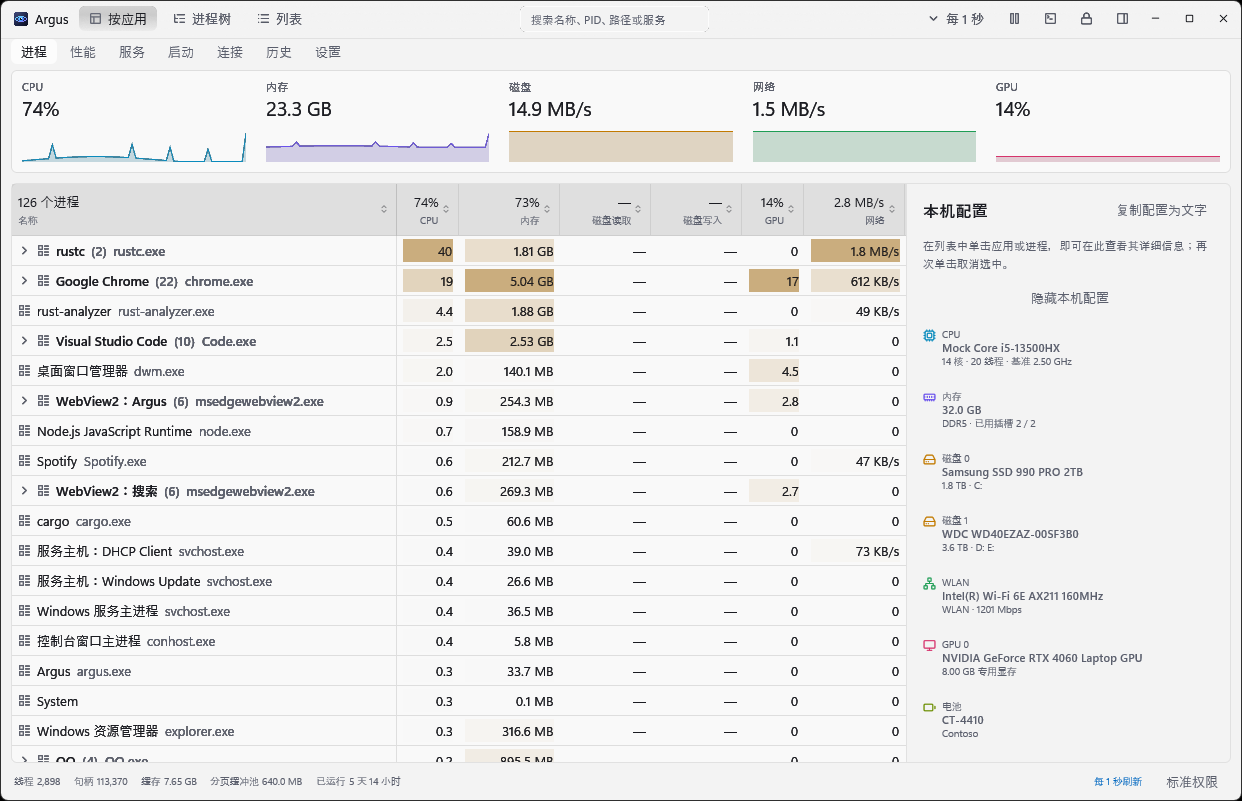
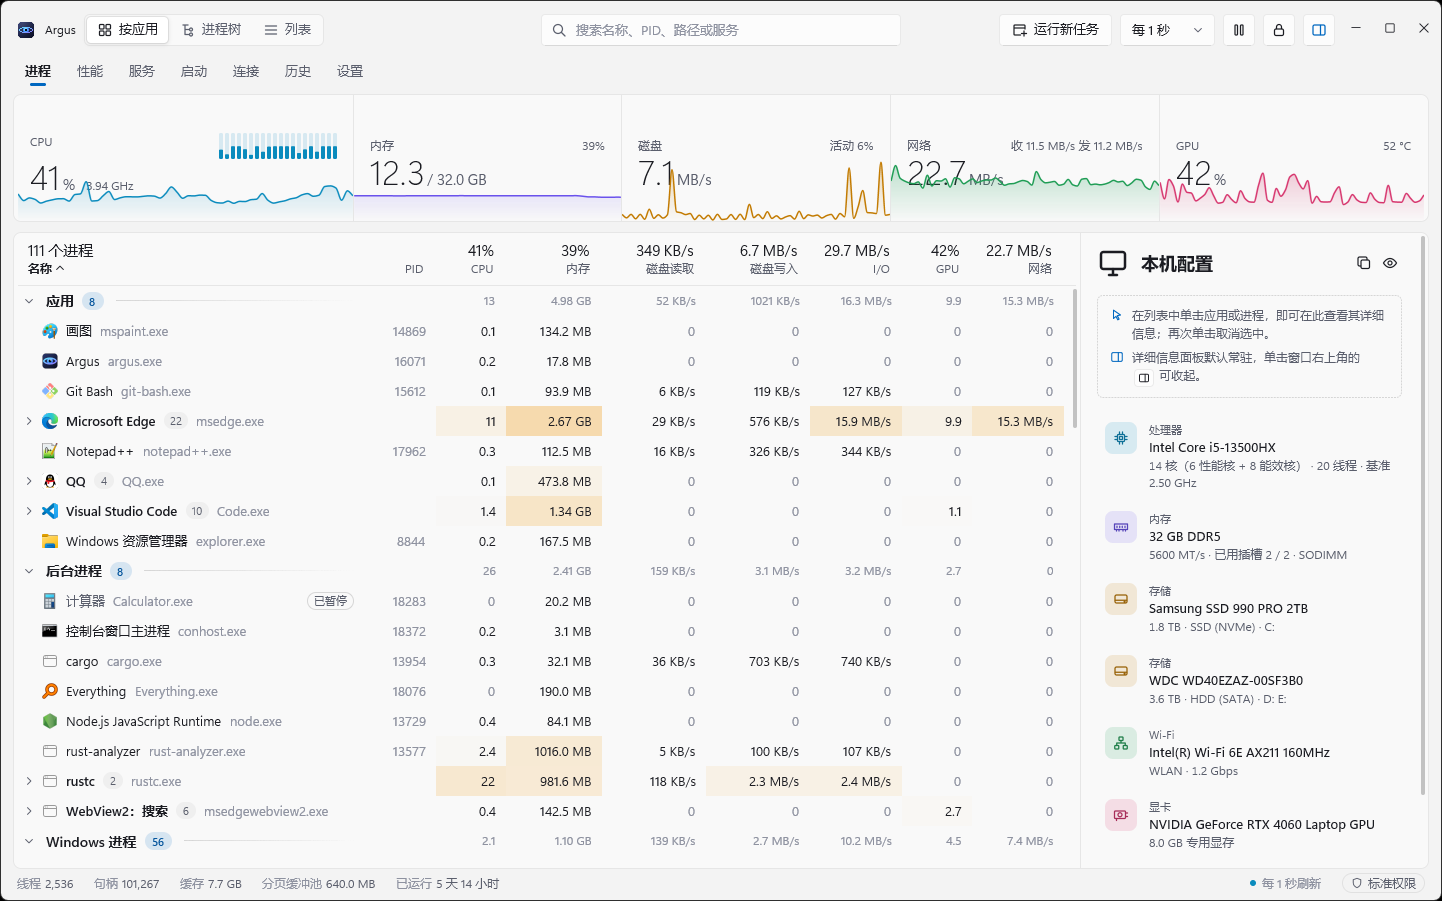
docs: 更新中英文 README 的进程页预览图

diff --git a/docs/AGENTS.md b/docs/AGENTS.md
@@ -4,7 +4,7 @@
 
 - `README.md`（仓库根目录）：对外公开的介绍，参考典型开源项目：是什么、特性、系统要求、怎么构建、快捷键摘要、文档入口、路线图摘要。保持简短，不放实现细节和测量过程。内部开发细则（提交规范、发布流程、CI）也不写进去，包括文档链接后的说明文字。
 - README 的标题 emoji 不要带变体选择符 U+FE0F（如 🛠、⌨、🗺）：GitHub 生成锚点时会保留这个不可见字符，`#-标题` 形式的链接就会失效。
-- README 截图使用窗口探针与模拟快照，只捕获 Argus 测试窗口，不截真实进程；分别验证浅色、深色与中英文。
+- 更新 README 预览图运行 `node scripts/readme-previews.mjs`。用当前源码构建的窗口，按名称升序展示模拟应用及其真实图标。四张图共用同一段连续实测的 CPU、内存、磁盘、网络和 GPU 负载，逐张核对中英文与深浅主题。
 - 英文版 `README.en.md` 与 `README.md` 内容对应，改一边要同步另一边；两者顶部的语言切换行互相链接。英文截图（`screenshot-en-*.png`）用测试标识下的英文设置与模拟快照截取，模拟数据里的进程与服务描述会随之换成英文。英文版链接的 `docs/` 页面是中文的，链接处注明。
 - `docs/`：给用户和开发者看的详细信息。
 - `AGENTS.md`（根目录与各子目录）：只给 AI 代理看的规则与经验。不要把这些内容写进 README 或 docs，也不要把面向人的说明只写在 AGENTS.md 里。

diff --git a/docs/development/README.md b/docs/development/README.md
@@ -8,6 +8,7 @@
 | `start.bat check` | 文案、格式、生成代码、脚本测试、Clippy 与 Rust 测试 |
 | `start.bat build` | 构建辅助程序并嵌入原生 target/release/argus.exe |
 | `start.bat build installer` | 构建并打包 NSIS 安装程序，不运行安装程序 |
+| `node scripts/readme-previews.mjs` | 从当前发行构建生成中英文 README 的浅色和深色进程页截图 |
 | `start.bat clean` | 清理应用产物，保留依赖缓存 |
 | `start.bat clean all` | 清空 Cargo 构建缓存 |
 
@@ -16,6 +17,8 @@
 启动后，终端显示进程 ID 并持续监听文件变更；终端不退出属于正常行为。程序退出或启动失败会显示对应信息。默认启动显示主窗口，显式的 `--hidden` 参数才让窗口保持隐藏；主程序不可使用 Node 的 `windowsHide` 启动选项。
 
 安装打包需要 NSIS 3.13；可安装到默认目录，或通过 ARGUS_NSIS 指定 makensis.exe。构建日志、缓存与验证产物位于 target。
+
+README 预览使用窗口探针捕获独立测试窗口。五条曲线回放 `tools/window-probe/fixtures/readme-trace.json` 中约每秒一次的 60 个连续读数，保留相对采样时间、CPU 与 GPU 占用、内存占比、磁盘读写和网络收发速率。内存占比换算为模拟机器的容量，进程表按模拟进程的占比分配负载。应用图标取自对应程序的 Windows 图标资源。更新界面后重跑同一命令，即可用同一组数据对照新旧预览。
 
 - [GPUI 与平台边界](gpui.md)
 - [构建与缓存](build.md)

diff --git a/README.en.md b/README.en.md
@@ -24,7 +24,7 @@
 
 <picture>
   <source media="(prefers-color-scheme: dark)" srcset="docs/images/screenshot-en-dark.png">
-  <img src="docs/images/screenshot-en-light.png" alt="The Argus processes page: processes grouped by app, with CPU, memory, disk, network and GPU at a glance">
+  <img src="docs/images/screenshot-en-light.png" alt="The Argus Processes page with apps sorted by name. Charts above the list show the last minute of CPU, memory, disk, network and GPU activity.">
 </picture>
 
 <br>

diff --git a/README.md b/README.md
@@ -24,7 +24,7 @@
 
 <picture>
   <source media="(prefers-color-scheme: dark)" srcset="docs/images/screenshot-dark.png">
-  <img src="docs/images/screenshot-light.png" alt="Argus 进程页：按应用分组的进程列表与 CPU、内存、磁盘、网络、GPU 概况">
+  <img src="docs/images/screenshot-light.png" alt="Argus 进程页，按名称升序排列的应用及其资源占用。上方曲线展示最近一分钟的 CPU、内存、磁盘、网络与 GPU 负载。">
 </picture>
 
 <br>
